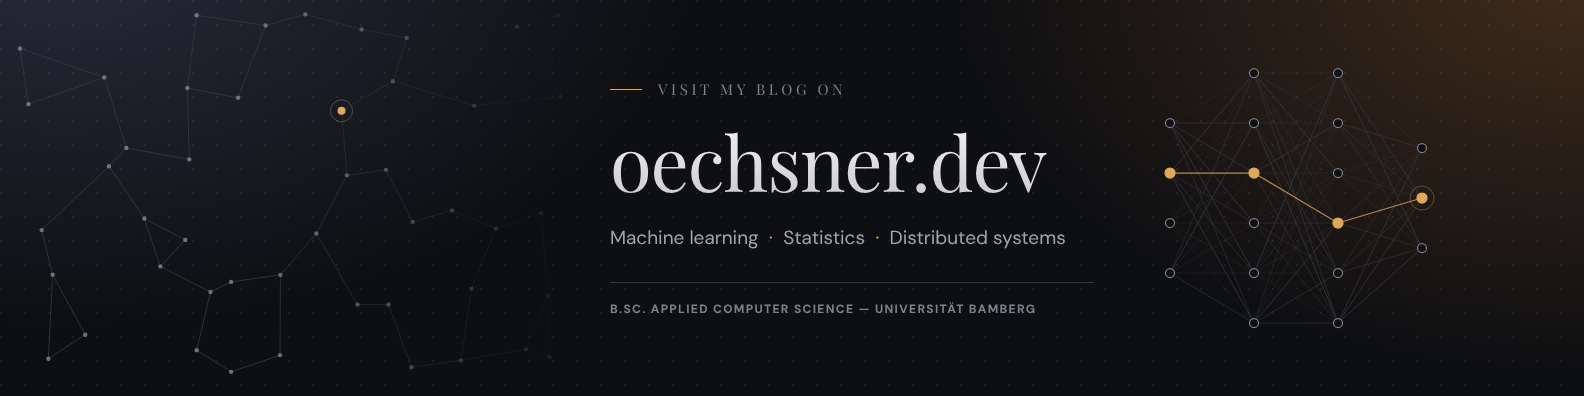
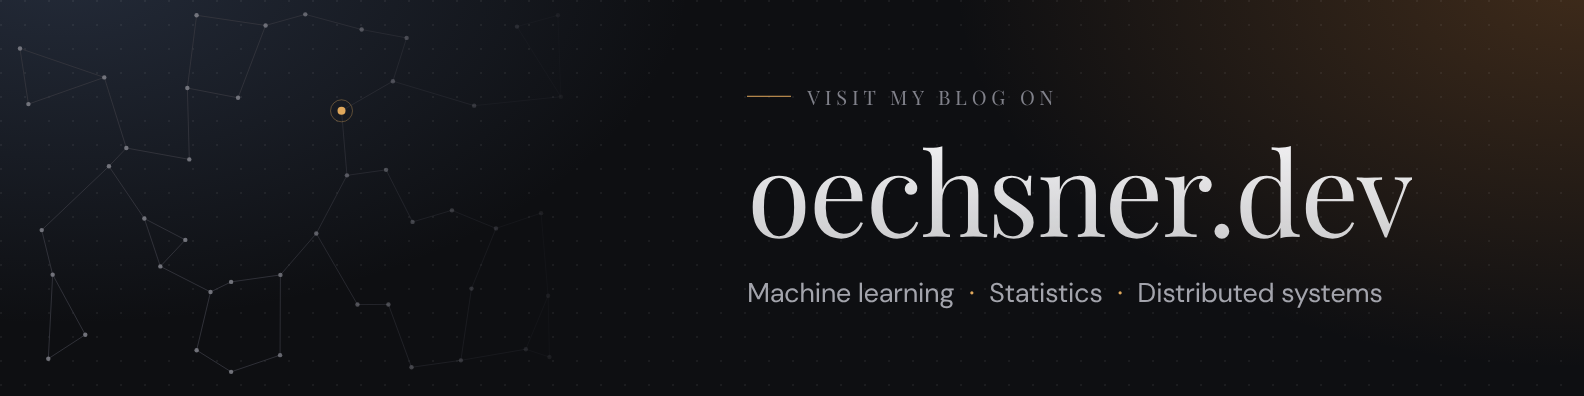
LinkedIn cover: drop net and degree line, bigger text on the right
Headline 76→116px, label 15→20px, topics 19→27px; the block is pinned
to the right, just inside the mobile side-crop.

Claude-Session: https://claude.ai/code/session_011FbGrfZaP8dLMqHVLiRfnS

Changed region(s): [[0.3712, 0.3333, 0.928, 0.6364], [0.3712, 0.697, 0.8971, 0.7879], [0.4021, 0.2121, 0.6806, 0.2727]]

diff --git a/docs/linkedin-cover/banner.html b/docs/linkedin-cover/banner.html
@@ -12,15 +12,13 @@ html,body{width:1584px;height:396px;background:var(--bg);overflow:hidden}
   var(--bg)}
 .dots{position:absolute;inset:0;background-image:radial-gradient(circle at 1px 1px, rgba(244,244,246,.06) 1px, transparent 1.4px);background-size:24px 24px}
 svg.net{position:absolute;left:0;top:0}
-.copy{position:absolute;left:610px;right:490px;top:50%;transform:translateY(-50%)}
-.rail{font-family:'Playfair Display',serif;font-size:15px;letter-spacing:.24em;text-transform:uppercase;color:var(--text-muted);display:flex;align-items:center;gap:16px}
-.rail i{display:block;width:32px;height:1px;background:var(--accent)}
-h1{margin-top:22px;font-family:'Playfair Display',serif;font-weight:400;font-size:76px;line-height:1.06;letter-spacing:-.015em;
+.copy{position:absolute;right:172px;top:50%;transform:translateY(-50%)}
+.rail{font-family:'Playfair Display',serif;font-size:20px;letter-spacing:.24em;text-transform:uppercase;color:var(--text-muted);display:flex;align-items:center;gap:16px}
+.rail i{display:block;width:44px;height:1px;background:var(--accent)}
+h1{margin-top:18px;font-family:'Playfair Display',serif;font-weight:400;font-size:116px;line-height:1.06;letter-spacing:-.015em;
  background:linear-gradient(180deg,var(--text),rgba(244,244,246,.82));-webkit-background-clip:text;background-clip:text;color:transparent}
-.sub{margin-top:22px;font-family:'DM Sans',sans-serif;font-size:19px;line-height:1.5;color:var(--text-secondary)}
+.sub{margin-top:22px;font-family:'DM Sans',sans-serif;font-size:27px;line-height:1.5;color:var(--text-secondary)}
 .sub b{color:var(--accent);font-weight:400;padding:0 .55em}
-.meta{margin-top:30px;padding-top:18px;border-top:1px solid var(--line-strong);display:flex;justify-content:space-between;
- font-family:'DM Sans',sans-serif;font-size:12px;font-weight:700;letter-spacing:.11em;text-transform:uppercase;color:var(--text-muted)}
 </style></head><body>
 <div class="c">
  <div class="dots"></div>
@@ -29,8 +27,7 @@ h1{margin-top:22px;font-family:'Playfair Display',serif;font-weight:400;font-siz
   <div class="rail"><i></i>Visit my Blog on</div>
   <h1>oechsner.dev</h1>
   <p class="sub">Machine learning<b>·</b>Statistics<b>·</b>Distributed systems</p>
-  <div class="meta"><span>B.Sc. Applied Computer Science — Universität Bamberg</span></div>
- </div>
+  </div>
 </div>
 <script>
 // Seeded node graph on the left: points jittered on a grid, each joined to its 2 nearest
@@ -49,19 +46,5 @@ P.forEach(p=>{const c=document.createElementNS(ns,'circle');const h=p===hot;c.se
  c.setAttribute('fill',h?'#e0a85c':'#80818a');c.setAttribute('opacity',h?1:(.85*fade(p[0])).toFixed(2));svg.appendChild(c);
  if(h){const g=document.createElementNS(ns,'circle');g.setAttribute('cx',p[0]);g.setAttribute('cy',p[1]);g.setAttribute('r',11);g.setAttribute('fill','none');g.setAttribute('stroke','rgba(224,168,92,.35)');svg.insertBefore(g,c)}});
 
-// Feed-forward net on the right: full connections between layers, edge opacity from a
-// seeded "weight", and one copper forward pass echoing the copper node on the left.
-const L=[4,6,6,3],X0=1170,DX=84,DY=50,CY=198;
-const lay=L.map((n,li)=>Array.from({length:n},(_,k)=>[X0+li*DX,CY+(k-(n-1)/2)*DY]));
-const hotPath=[1,2,3,1];
-const mk=(t,a)=>{const e=document.createElementNS(ns,t);for(const k in a)e.setAttribute(k,a[k]);svg.appendChild(e);return e};
-for(let li=0;li<L.length-1;li++)lay[li].forEach((p,i)=>lay[li+1].forEach((q,j)=>{
- const w=.25+.65*r()**1.6;
- mk('line',{x1:p[0],y1:p[1],x2:q[0],y2:q[1],stroke:'#34353d','stroke-width':1,opacity:w.toFixed(2)})}));
-for(let li=0;li<L.length-1;li++){const p=lay[li][hotPath[li]],q=lay[li+1][hotPath[li+1]];
- mk('line',{x1:p[0],y1:p[1],x2:q[0],y2:q[1],stroke:'#e0a85c','stroke-width':1.25,opacity:.75})}
-lay.forEach((col,li)=>col.forEach((p,k)=>{const h=hotPath[li]===k;
- mk('circle',{cx:p[0],cy:p[1],r:h?5:4.5,fill:h?'#e0a85c':'#0e0f12',stroke:h?'#e0a85c':'#80818a','stroke-width':1.25});
- if(h&&li===L.length-1)mk('circle',{cx:p[0],cy:p[1],r:12,fill:'none',stroke:'rgba(224,168,92,.35)'})}));
 </script>
 </body></html>
